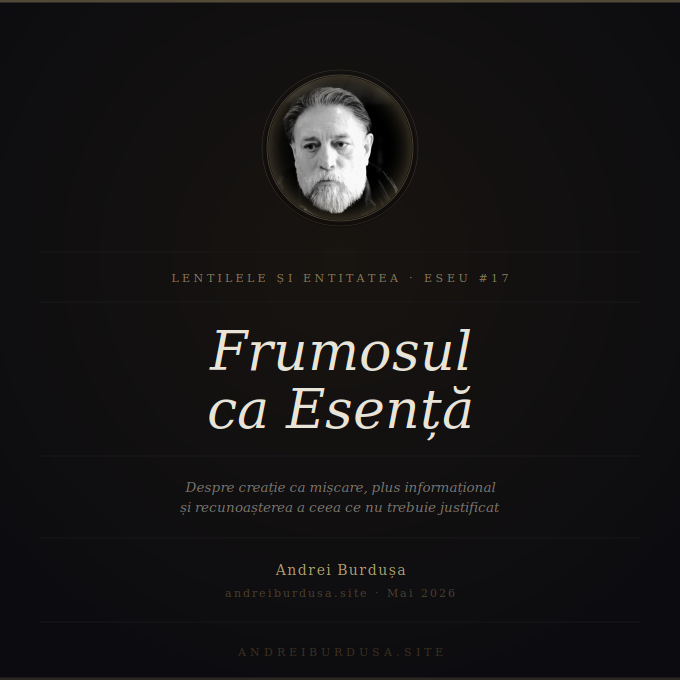
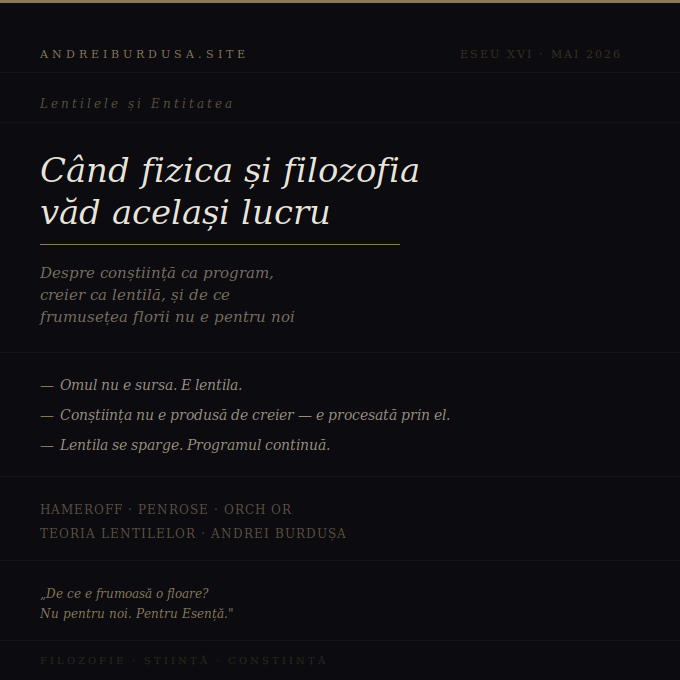
Add files via upload

diff --git a/frumosul-ca-esenta.html b/frumosul-ca-esenta.html
@@ -5,16 +5,6 @@
 <meta name="viewport" content="width=device-width, initial-scale=1.0">
 <title>Lentilele și Entitatea #17 — Frumosul ca Esență | Andrei Burdușa</title>
 <meta name="description" content="Frumosul nu se justifică — se recunoaște ca Esență. Floarea e frumoasă în modul. Despre creație ca mișcare, plus informațional și iubire ca matrice.">
-<meta property="og:title" content="Frumosul ca Esență — Lentilele și Entitatea #17"/>
-<meta property="og:description" content="Frumosul e anterior. E câmpul în care Creația Devine din sine ca forță generatoare de probabilități — pozitivă prin definiție. Esența recunoaște Esența."/>
-<meta property="og:image" content="https://andreiburdusa.site/card-frumosul-ca-esenta.png"/>
-<meta property="og:url" content="https://andreiburdusa.site/frumosul-ca-esenta.html"/>
-<meta property="og:type" content="article"/>
-<meta property="og:site_name" content="Andrei Burdușa"/>
-<meta name="twitter:card" content="summary_large_image"/>
-<meta name="twitter:title" content="Frumosul ca Esență — Lentilele și Entitatea #17"/>
-<meta name="twitter:description" content="Frumosul e anterior. E câmpul în care Creația Devine din sine ca forță generatoare de probabilități — pozitivă prin definiție. Esența recunoaște Esența."/>
-<meta name="twitter:image" content="https://andreiburdusa.site/card-frumosul-ca-esenta.png"/>
 <style>
   @import url('https://fonts.googleapis.com/css2?family=EB+Garamond:ital,wght@0,400;0,500;1,400;1,500&family=Cormorant+Garamond:ital,wght@0,300;0,400;1,300;1,400&display=swap');
 
@@ -178,12 +168,6 @@
   <p>Nu e. Frumosul e anterior. E câmpul în care Creația Devine din sine — nu rodul ei, nu cadrul pasiv care o primește. Frumosul e câmpul activ în care Creația devine probabilitate.</p>
 
   <p>Distincția e esențială și schimbă tot: un câmp în care creația e <em>posibilă</em> e un spațiu neutru, un recipient. Un câmp în care Creația <em>Devine din sine</em> e o forță generativă — care nu produce creația cu necesitate, ci o face probabilă. O cheamă fără să o impună.</p>
-
-  <p>O precizare se impune. Câmpul în care Creația Devine din sine nu e generativ în sens neutru — e generator de probabilități. Și această distincție schimbă tot: o forță generatoare de probabilități nu poate fi decât pozitivă prin definiție. Nu pentru că ar exclude contrariul printr-o decizie morală, ci pentru că structura ei e aditivă — se adaugă pe sine. Probabilitatea nu scade realul; îl extinde.</p>
-
-  <p>Fiind Energie pură, Creația e frumoasă în modul — nu ca proprietate adăugată, ci ca trăsătură constitutivă a mișcării înseși. Frumosul nu e un atribut al Creației. E modul în care Creația se manifestă ca Energie.</p>
-
-  <p>Din aceasta urmează o consecință care depășește orice estetică umană: capacitatea Creației de a multiplica la infinit frumosul în forme infinite nu înseamnă că toate aceste forme coincid cu ceea ce umanoizii înțeleg prin frumos. Forma umană a recunoașterii e una dintre infinitele actualizări ale câmpului — nu criteriul după care câmpul se evaluează pe sine. Frumosul originar e esența pozitivă a Creației, anterioară oricărei lentile care îl primește.</p>
 
   <h2>Creația ca mișcare</h2>
 
